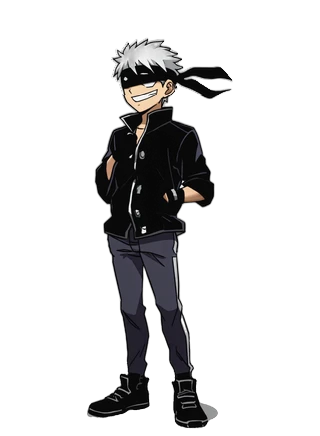
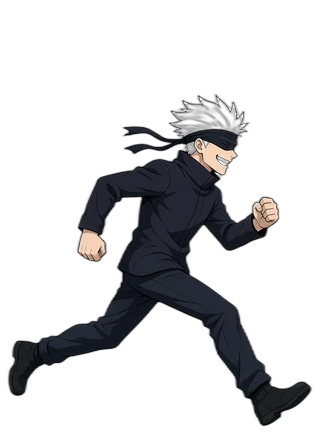
pages30n: 五条悟定稿 run 替换 idle 临时跑姿
土豪过审 run×8 写入 gojo/run + 重建 atlas；ASSET_V=pages30n。

diff --git a/game.js b/game.js
@@ -70,7 +70,7 @@
   var charHover = -1;
   // pages23: spritesheet loader. Each kit is 1–3 webp atlases (~5 total) plus ~15
   // core images. fetch+blob decode; match load exclusive; 20s stall → retry UI.
-  var ASSET_V = "pages30m";
+  var ASSET_V = "pages30n";
   var ASSET_GROUPS = { core: [], obito: [], pain: [], tanjiro: [], gojo: [] };
   var assetErrors = [];
   var LOAD_CONCURRENCY = 8;
@@ -647,7 +647,7 @@
   var tanjiroBodyW = 211 * tanjiroScale;
   var tanjiroBodyH = 360 * tanjiroScale;
 
-  // pages30m: 五条悟 — 基础帧选角预览；run 暂用 idle 顶（画风未过审）
+  // pages30n: 五条悟 — 基础帧 + 土豪过审定稿 run
   var gojo = {
     idle: loadNumbered("gojo/idle", 8),
     run: loadNumbered("gojo/run", 8),
@@ -4666,7 +4666,7 @@
       set = gojo.idle;
       idx = Math.min(7, Math.floor(((f.animT || 0) / Math.max(0.01, f.animDur || 0.4)) * 8));
     } else if (f.gait === "run" || f.gait === "walk") {
-      // pages30m: run = idle temp until 土豪过审新 run
+      // pages30n: run = 土豪过审定稿
       set = (gojo.run && gojo.run[0] && gojo.run[0].complete) ? gojo.run : gojo.idle;
       idx = Math.floor(time * 10) % 8;
     } else {

diff --git a/index.html b/index.html
@@ -51,7 +51,7 @@
 (function(){var t0=Date.now(),el=document.getElementById("bootT");var iv=setInterval(function(){if(!document.getElementById("boot")){clearInterval(iv);return;}el.textContent=Math.round((Date.now()-t0)/1000)+"s";},500);
 window.addEventListener("error",function(e){var m=document.getElementById("bootMsg");if(m&&e&&e.target&&e.target.src)m.textContent="脚本加载失败，正在重试…";},true);})();
 </script>
-<script src="game.js?v=pages30m" onerror="(function(s){var n=document.createElement('script');n.src='game.js?v=pages30m&r='+Date.now();document.body.appendChild(n);})(this)"></script>
+<script src="game.js?v=pages30n" onerror="(function(s){var n=document.createElement('script');n.src='game.js?v=pages30n&r='+Date.now();document.body.appendChild(n);})(this)"></script>
 
 <script>
 (function(){var last=0;
